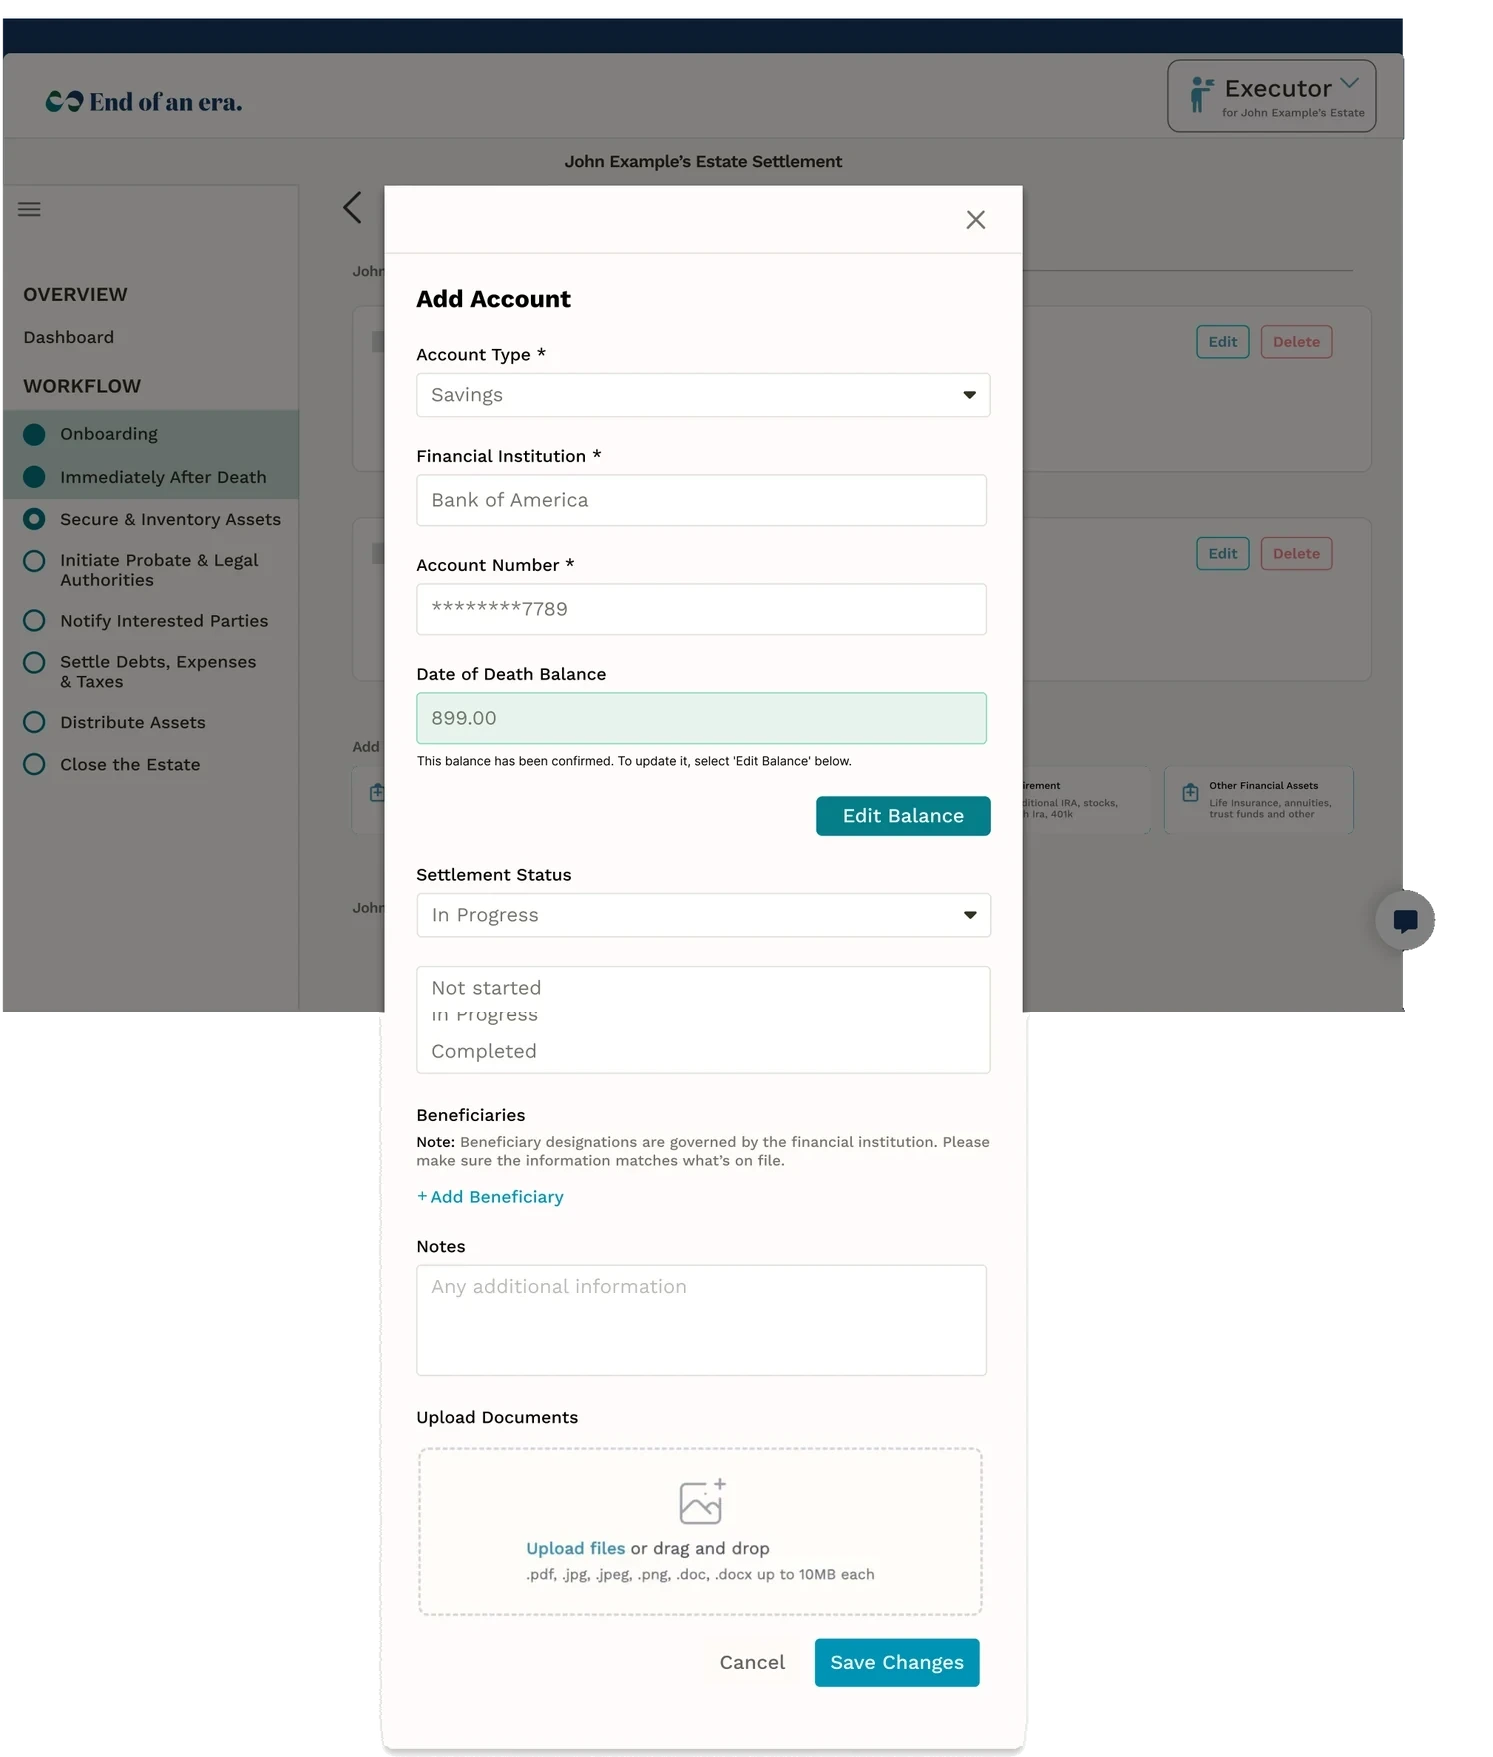
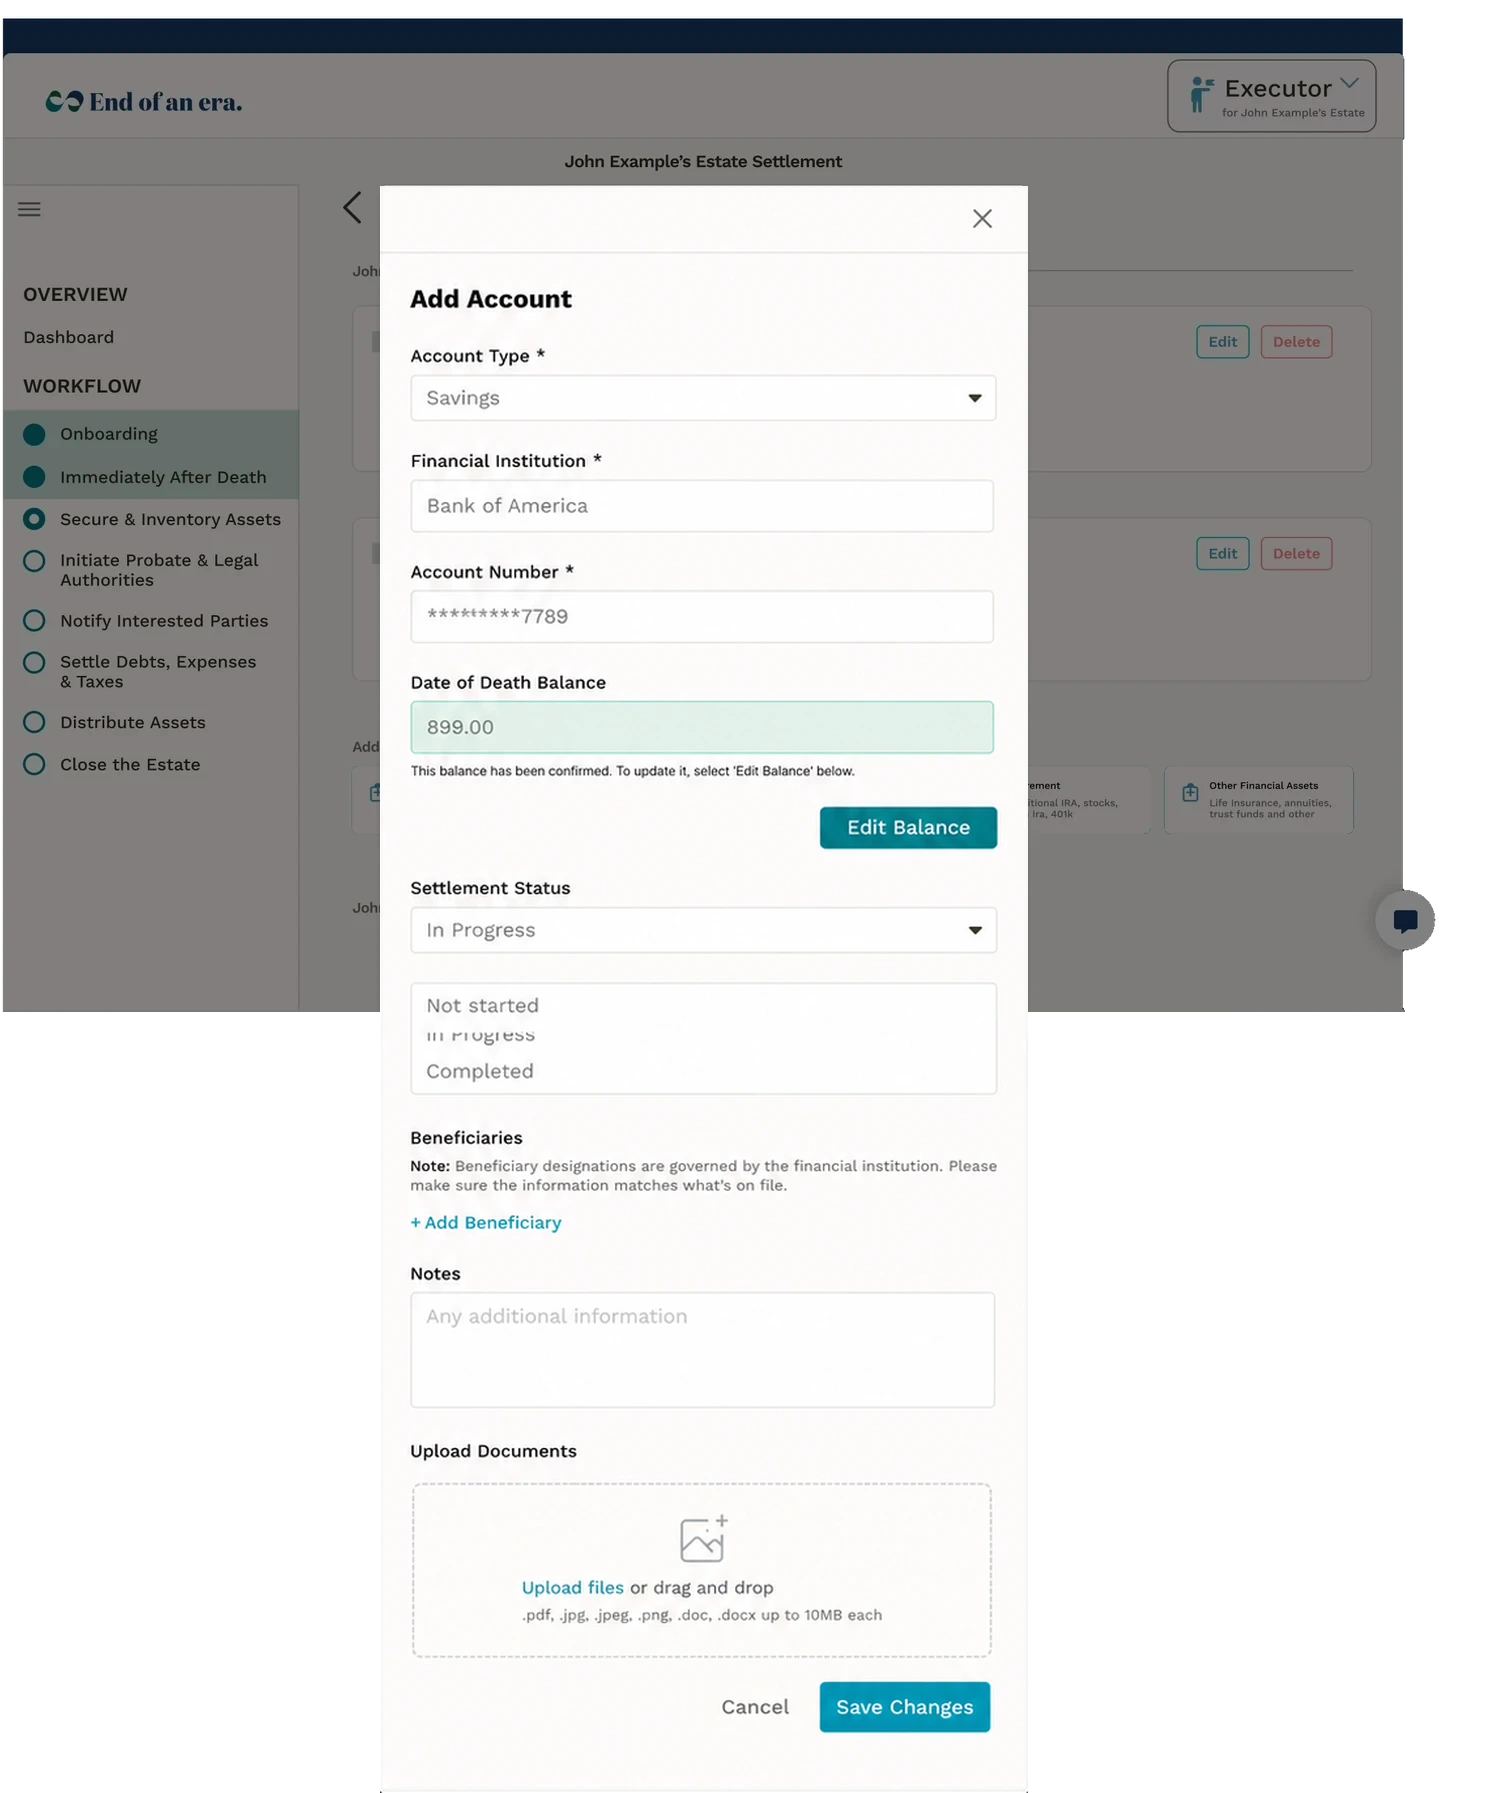
End of an Era: supplied clean modal cards for Add Account (empty and confirmed) and Add Primary Residence (tools/eoe_replace_modals.py)

diff --git a/app/work/end-of-an-era/frames.ts b/app/work/end-of-an-era/frames.ts
@@ -13,7 +13,7 @@ export const FRAMES = {
   "find-noplanner-5": { w: 1408, h: 1146, win: [6, 20, 1394, 1000] },
   "tia-planner-1": { w: 1408, h: 1021, win: [6, 20, 1394, 999] },
   "tia-planner-2": { w: 1494, h: 1736, win: [7, 20, 1394, 992] },
-  "tia-planner-3": { w: 1493, h: 1757, win: [6, 20, 1394, 992] },
+  "tia-planner-3": { w: 1493, h: 1793, win: [6,  20,  1394,  992] },
   "tia-planner-4": { w: 1493, h: 1757, win: [6, 20, 1394, 992] },
   "tia-planner-5": { w: 1493, h: 1757, win: [6, 20, 1394, 992] },
   "tia-planner-6": { w: 1493, h: 1757, win: [6, 20, 1394, 992] },
@@ -21,7 +21,7 @@ export const FRAMES = {
   "tia-planner-8": { w: 1415, h: 2721, win: [3, 20, 1394, 981] },
   "tia-planner-9": { w: 1408, h: 1021, win: [6, 20, 1394, 999] },
   "tia-noplanner-1": { w: 1400, h: 1006, win: [3, 20, 1394, 986] },
-  "tia-noplanner-2": { w: 1493, h: 1597, win: [6, 19, 1394, 993] },
+  "tia-noplanner-2": { w: 1493, h: 1695, win: [6,  19,  1394,  993] },
   "tia-noplanner-3": { w: 1492, h: 2036, win: [6, 19, 1394, 994] },
   "tia-noplanner-4": { w: 1405, h: 1021, win: [3, 20, 1394, 991] },
   "tia-noplanner-5": { w: 1494, h: 1857, win: [7, 20, 1394, 992] },
@@ -29,7 +29,7 @@ export const FRAMES = {
   "tia-noplanner-7": { w: 1408, h: 1021, win: [6, 20, 1394, 999] },
   "realestate-planner-1": { w: 1408, h: 1021, win: [6, 20, 1394, 999] },
   "realestate-noplanner-1": { w: 1408, h: 1021, win: [6, 20, 1394, 999] },
-  "realestate-noplanner-2": { w: 1494, h: 1918, win: [6, 20, 1394, 992] },
+  "realestate-noplanner-2": { w: 1494, h: 1928, win: [6,  20,  1394,  992] },
   "realestate-noplanner-3": { w: 1408, h: 1021, win: [6, 20, 1394, 999] },
   "realestate-noplanner-4": { w: 1494, h: 1942, win: [7, 20, 1394, 993] },
   "realestate-noplanner-5": { w: 1408, h: 1021, win: [6, 20, 1394, 999] },
